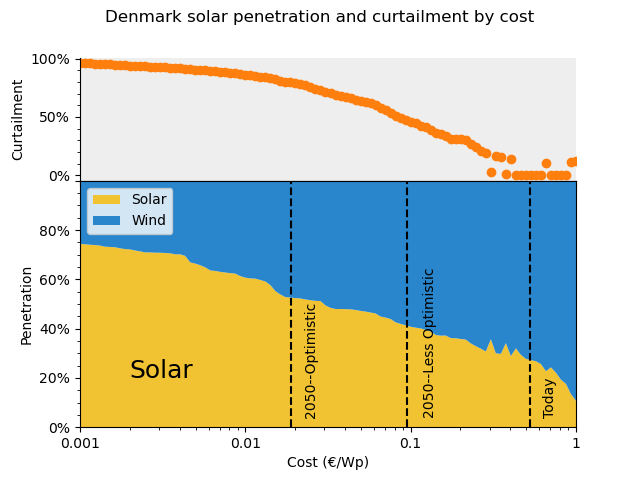
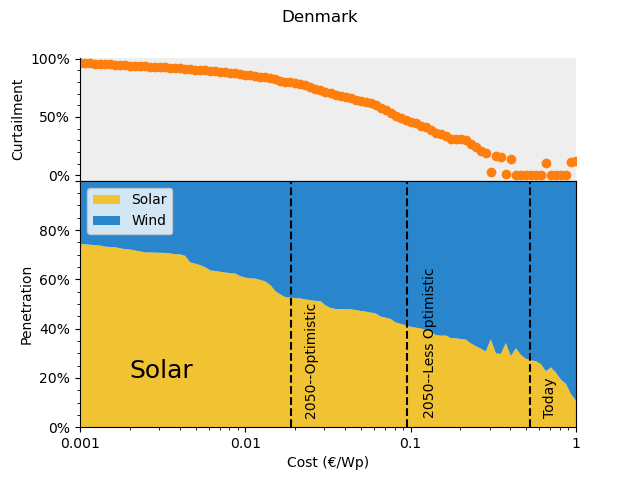
Making Figure 1 better (more readable)

Changed region(s): [[0.1562, 0.0, 0.8438, 0.0625]]

diff --git a/SimpleModelStorageZeroCO2.py b/SimpleModelStorageZeroCO2.py
@@ -7,6 +7,7 @@ import time
 from itertools import repeat
 import os
 import re
+import matplotlib.image as mpimg
 
 #network = Denmark, nspain, ncal, ncolorado
 Denmark = pypsa.Network()
@@ -383,26 +384,26 @@ for network in mynetworks:
 
 
 
-# DNK_solar_data = list(map(find_solar_data, repeat(Denmark), repeat("Denmark"), np.logspace(3, 6, 100)))
-# ESP_solar_data = list(map(find_solar_data, repeat(Spain), repeat("Spain"), np.logspace(3, 6, 100)))
-# CA_solar_data = list(map(find_solar_data, repeat(CA), repeat("CA"), np.logspace(3, 6, 100)))
-# CO_solar_data = list(map(find_solar_data, repeat(CO), repeat("CO"), np.logspace(3, 6, 100)))
+# DNK_solar_data = list(map(find_solar_data, repeat(Denmark), repeat("Denmark"), np.linspace(3, 6, 100)))
+# ESP_solar_data = list(map(find_solar_data, repeat(Spain), repeat("Spain"), np.linspace(3, 6, 100)))
+# CA_solar_data = list(map(find_solar_data, repeat(CA), repeat("CA"), np.linspace(3, 6, 100)))
+# CO_solar_data = list(map(find_solar_data, repeat(CO), repeat("CO"), np.linspace(3, 6, 100)))
+
+# for network in mynetworks:
+#     reset_stats(network)
+
+# map(find_wind_data, repeat(Denmark), repeat("Denmark"), np.logspace(3, 6, 100))
+# map(find_wind_data, repeat(Spain), repeat("Spain"), np.logspace(3, 6, 100))
+# map(find_wind_data, repeat(CA), repeat("CA"), np.logspace(3, 6, 100))
+# map(find_wind_data, repeat(CO), repeat("CO"), np.logspace(3, 6, 100))
 
 for network in mynetworks:
     reset_stats(network)
 
-map(find_wind_data, repeat(Denmark), repeat("Denmark"), np.logspace(3, 6, 100))
-map(find_wind_data, repeat(Spain), repeat("Spain"), np.logspace(3, 6, 100))
-map(find_wind_data, repeat(CA), repeat("CA"), np.logspace(3, 6, 100))
-map(find_wind_data, repeat(CO), repeat("CO"), np.logspace(3, 6, 100))
-
-for network in mynetworks:
-    reset_stats(network)
-
-#list(map(find_C02lim_data, repeat(Denmark), repeat("Denmark"), np.linspace(0, 3000000, 100)))
-map(find_C02lim_data, repeat(Spain), repeat("Spain"), np.logspace(0, 30000000, 100))
-map(find_C02lim_data, repeat(CA), repeat("CA"), np.logspace(0, 40000000, 100))
-map(find_C02lim_data, repeat(CO), repeat("CO"), np.logspace(0, 5000000, 100))
+list(map(find_C02lim_data, repeat(Denmark), repeat("Denmark"), np.linspace(0, 3000000, 100)))
+list(map(find_C02lim_data, repeat(Spain), repeat("Spain"), np.logspace(0, 30000000, 100)))
+list(map(find_C02lim_data, repeat(CA), repeat("CA"), np.logspace(0, 40000000, 100)))
+list(map(find_C02lim_data, repeat(CO), repeat("CO"), np.logspace(0, 5000000, 100)))
 
 
 
@@ -423,12 +424,9 @@ def import_cdf_data(filepath):
 
     max_gen = (n.generators.p_nom_opt * n.generators_t.p_max_pu)['solar'].sum()
 
-
-    gas_percent = gas_penetration/ (solar_penetration+ wind_penetration + gas_penetration)
     
    
     solar_cost = n.generators.loc[['solar'],['capital_cost']].values[0]
-    print(solar_cost)
     if max_gen == 0:
         s_curtailment = 0
         w_curtailment = 0
@@ -438,14 +436,13 @@ def import_cdf_data(filepath):
 
     
 
-    return solar_cost, solar_penetration, wind_penetration, s_curtailment, w_curtailment, gas_percent
+    return solar_cost, solar_penetration, wind_penetration, s_curtailment, w_curtailment, gas_penetration
 
 
 def natural_sort(l): 
     convert = lambda text: int(text) if text.isdigit() else text.lower()
     alphanum_key = lambda key: [convert(c) for c in re.split('([0-9]+)', key)]
     return sorted(l, key=alphanum_key)
-
 
 
 
@@ -457,8 +454,6 @@ def iterate_netcdf_solar(country):
         if "solar" in filename:
             f = os.path.join(mypath, filename)
             solution_list += [import_cdf_data(f)]
-            print(filename)
-        
     return solution_list
 
 
@@ -468,7 +463,7 @@ def iterate_netcdf_co2(country):
     '''Takes country as a string'''
     solution_list = []
     mypath = "NetCDF/" + country 
-    for filename in os.listdir(mypath):
+    for filename in natural_sort(os.listdir(mypath)):
         #if "solar" in filename:
         #if "wind" in filename:
         if "constraint" in filename:
@@ -480,7 +475,7 @@ def iterate_netcdf_co2(country):
 
 
 
-#solardnk = iterate_netcdf_solar("Denmark")
+solardnk = iterate_netcdf_solar("Denmark")
 solaresp = iterate_netcdf_solar("Spain")
 solarcol = iterate_netcdf_solar("CO")
 solarcal = iterate_netcdf_solar("CA")
@@ -795,12 +790,14 @@ def pen_plus_curtailDNK(solar):
 
 
 
-    plt.suptitle("Denmark solar penetration and curtailment by cost", fontsize = 12)
+    plt.suptitle("Denmark")
     
 
     plt.subplots_adjust(hspace = 0)
-    plt.savefig("Images/Pen_and_curtail_DNK")
-    plt.show()
+    #plt.savefig("Images/Pen_and_curtail_DNK")
+    #plt.show()
+    plt.close(fig)
+    return axs
 #pen_plus_curtailDNK(solardnk)
 
 def pen_plus_curtailESP(solar):
@@ -872,13 +869,15 @@ def pen_plus_curtailESP(solar):
 
 
 
-    plt.suptitle("Spain solar penetration and curtailment by cost", fontsize = 12)
+    plt.suptitle("Spain")
     
 
     plt.subplots_adjust(hspace = 0)
-    plt.savefig("Images/Pen_and_curtail_ESP")
-    plt.show()
-pen_plus_curtailESP(solaresp)
+    #plt.savefig("Images/Pen_and_curtail_ESP")
+    #plt.show()
+    plt.close(fig)
+    return axs
+#pen_plus_curtailESP(solaresp)
 
 def pen_plus_curtailCO(solar):
     s_cost = [x[0] for x in solar]
@@ -949,13 +948,15 @@ def pen_plus_curtailCO(solar):
 
 
 
-    plt.suptitle("CO solar penetration and curtailment by cost", fontsize = 12)
+    plt.suptitle("Colorado")
     
 
     plt.subplots_adjust(hspace = 0)
-    plt.savefig("Images/Pen_and_curtail_CO")
-    plt.show()
-pen_plus_curtailCO(solarcol)
+    #plt.savefig("Images/Pen_and_curtail_CO")
+    #plt.show()
+    plt.close(fig)
+    return axs
+#pen_plus_curtailCO(solarcol)
 
 
 def pen_plus_curtailCA(solar):
@@ -1027,13 +1028,15 @@ def pen_plus_curtailCA(solar):
 
 
 
-    plt.suptitle("CA solar penetration and curtailment by cost", fontsize = 12)
+    plt.suptitle("California")
     
 
     plt.subplots_adjust(hspace = 0)
-    plt.savefig("Images/Pen_and_curtail_CA")
-    plt.show()
-pen_plus_curtailCA(solarcal)
+    #plt.savefig("Images/Pen_and_curtail_CA")
+    #plt.show()
+    plt.close(fig)
+    return axs
+#pen_plus_curtailCA(solarcal)
 
 
 
@@ -1042,10 +1045,10 @@ def pen_plus_curtailALL():
     
     fig2 = plt.figure()
 
-    ax1  = pen_plus_curtailDNK()
-    ax2 = pen_plus_curtailESP()
-    ax3 = pen_plus_curtailCO()
-    ax4 = pen_plus_curtailCA()
+    ax1  = pen_plus_curtailDNK(solardnk)
+    ax2 = pen_plus_curtailESP(solaresp)
+    ax3 = pen_plus_curtailCO(solarcol)
+    ax4 = pen_plus_curtailCA(solarcal)
  
     ax1.figure = fig2
     ax2.figure = fig2
@@ -1099,7 +1102,23 @@ def pen_plus_curtailALL():
     
     
     plt.show()
+#pen_plus_curtailALL()
 
+def plot_an_image():
+    '''What I am making here '''
+    fig, axs = plt.subplots(2,1)
+    img1 = mpimg.imread("Images/Figure4.png")
+    img2 = mpimg.imread("Images/Figure_1.png")
+    axs[0].imshow(img1)
+    axs[1].imshow(img2)
+    plt.subplots_adjust(hspace = 0)
+
+    for ax in axs.flat:
+        ax.axis("off")
+    plt.show()
+
+
+plot_an_image()
 #pen_plus_curtailDNK(solardnk)
 #pen_plus_curtailESP(solaresp)
 #pen_plus_curtailCA(solarcal)

diff --git a/temperature-elec-compare.py b/temperature-elec-compare.py
@@ -7,7 +7,7 @@ import seaborn as sns
 import statsmodels.api as sm
 import matplotlib.dates as mdates
 from decimal import Decimal
-
+from matplotlib import gridspec
 
 def get_temp_data(timeframe):
     
@@ -516,6 +516,7 @@ def plot_ED_and_CF_data():
     
     This serves as figure 1 '''
     elec = get_electricity_data("weekly")[0]
+    print(elec)
 
     #elec = temp_to_elec()["DNK_demand"]
     solar = get_solar_data("weekly")[0]
@@ -554,11 +555,138 @@ def plot_ED_and_CF_data():
     fig.set_size_inches(6.4, 6)
     plt.savefig("images/EDandCFSpain")
     plt.show()
+
 '''This section of equations considers what happens if you take advantage of the relationship between electricity demand and temperature
 to see what happens if you are to increase the temperature by x degrees. In addition, one can '''
 
+def plot_ED_and_CF_data_all():
+    '''This function plots the electricity demand for one country on one axis and the capacity factors on other axes (sharing a y axis).
+    Modify it to change which country (make sure CA and CO use "Time in 2011")
+    
+    we can plot either just elec, or elec+heat, using temp_to_elec
+    
+    This serves as figure 1 '''
+    elecdnk = get_electricity_data("weekly")[1] #note: this returns a DATAFRAME so to to keep it as a dataframe do not use list comprehension
+    elecdnk = elecdnk/max(elecdnk)
+    solardnk = get_solar_data("weekly")[1]
+    winddnk = get_wind_data("weekly")[1]
+    #elec = temp_to_elec()["DNK_demand"]
+    
+    elecesp = get_electricity_data("weekly")[0]
+    elecesp = elecesp/max(elecesp)
+    solaresp = get_solar_data("weekly")[0]
+    windesp = get_wind_data("weekly")[0]
+
+    elecCo = get_electricity_data("weekly")[2]
+    elecCo = elecCo/max(elecCo)
+    #elecCo = [x/max(elecCo) for x in elecCo]
+    solarCo = get_solar_data("weekly")[2]
+    windCo = get_wind_data("weekly")[2]
+
+    elecCA = get_electricity_data("weekly")[3]
+    elecCA = elecCA/max(elecCA)
+
+    #elecCA = [x/max(elecCA) for x in elecCA]
+    solarCA = get_solar_data("weekly")[3]
+    windCA = get_wind_data("weekly")[3]
+
+    fig = plt.figure()
+    fig.set_figheight(5)
+
+    #gs = gridspec.GridSpec(2, 1)
+    axdnk1 = fig.add_subplot(411)
+    axdnk1.set_ylim(0.01, 1)
+    axdnk2=fig.add_subplot(411, frame_on=False)
+    axdnk2.set_ylim(0.01, 1)
+    axdnk3 = fig.add_subplot(411, sharey = axdnk2, frame_on=False)
+    axdnk1.plot(elecdnk, 'C0-', label = "Electricity demand")
+    axdnk2.plot(solardnk, 'C1-',  label = "Solar CF")
+    axdnk2.plot(winddnk, 'C2-',  label = "Wind CF")
+    axdnk1.set_ylabel("Denmark")
+    axdnk1.tick_params(direction = "in")
+
+    axesp1 = fig.add_subplot(412)
+    axesp1.set_ylim(0.01, 1)
+    axesp2= fig.add_subplot(412, frame_on=False)
+    axesp2.set_ylim(0.01, 1)
+    axesp3 = fig.add_subplot(412, sharey = axesp2, frame_on=False)
+    axesp1.plot(elecesp, 'C0-', label = "Electricity demand")
+    axesp2.plot(solaresp, 'C1-', label = "Solar CF")
+    axesp3.plot(windesp, 'C2-', label = "Wind CF")
+    axesp1.set_ylabel("Spain")
+    axesp1.tick_params(direction = "in")
 
 
+    axco1 = fig.add_subplot(413)
+    axco1.set_ylim(0.01, 1)
+    axco2= fig.add_subplot(413, frame_on=False)
+    axco2.set_ylim(0.01, 1)
+    axco3 = fig.add_subplot(413, sharey = axco2, frame_on=False)
+    axco1.plot(elecCo, 'C0-', label = "Electricity demand")
+    axco2.plot(solarCo, 'C1-', label = "Solar CF")
+    axco3.plot(windCo, 'C2-', label = "Wind CF")
+    axco1.set_ylabel("Colorado")
+    axco1.tick_params(direction = "in")
+
+    axca1 = fig.add_subplot(414)
+    axca1.set_ylim(0, 1)
+    axca2= fig.add_subplot(414, frame_on=False)
+    axca2.set_ylim(0, 1)
+    axca3 = fig.add_subplot(414, sharey = axca2, frame_on=False)
+    axca1.plot(elecCA, 'C0-', label = "Electricity demand")
+    axca2.plot(solarCA, 'C1-', label = "Solar CF")
+    axca3.plot(windCA, 'C2-', label = "Wind CF")
+    axca1.set_ylabel("California")
+    axca1.tick_params(direction = "in")
+
+
+
+    fmt = mdates.DateFormatter("%b")
+
+    plt.setp(axdnk1.get_xticklabels(), visible=False)
+    axdnk2.set_xticks([]) #We have two graphs sharing one axis, and without this we would be seeing double
+
+
+    plt.setp(axesp1.get_xticklabels(), visible=False)
+    axesp2.set_xticks([]) #We have two graphs sharing one axis, and without this we would be seeing double
+
+ 
+    plt.setp(axco1.get_xticklabels(), visible=False)
+    axco2.set_xticks([]) #We have two graphs sharing one axis, and without this we would be seeing double
+
+
+    axca1.xaxis.set_major_formatter(fmt)
+    axca2.set_xticks([]) #We have two graphs sharing one axis, and without this we would be seeing double
+
+    axdnk2.yaxis.set_visible(False)
+    axdnk3.set_xticks([])
+    axdnk3.yaxis.set_visible(False)
+
+    axesp2.yaxis.set_visible(False)
+    axesp3.set_xticks([])
+    axesp3.yaxis.set_visible(False)
+
+    axco2.yaxis.set_visible(False)
+    axco3.set_xticks([])
+    axco3.yaxis.set_visible(False)
+
+    axca2.yaxis.set_visible(False)
+    axca3.set_xticks([])
+    axca3.yaxis.set_visible(False)
+
+    #axdnk1.set_title("Denmark Electricity Demand and Capacity factors")
+
+
+    lines1, labels1 = axdnk1.get_legend_handles_labels()
+    lines2, labels2 = axdnk2.get_legend_handles_labels()
+    lines3, labels3 = axdnk3.get_legend_handles_labels()
+
+    fig.legend(lines1+lines2+lines3, labels1+labels2+labels3, bbox_to_anchor=(0.85, 0.06), ncol=3)
+    #fig.set_size_inches(6.4, 6)
+    plt.subplots_adjust(hspace=0)
+    plt.savefig("images/EDandCFALL2")
+    plt.show()
+#plot_ED_and_CF_data_all()
 
 #plot_ED_and_CF_data()
 
@@ -1066,7 +1194,7 @@ def gw_elec_all():
     
     plt.show()
 
-gw_elec_all()
+#gw_elec_all()
 #In this section of code, I want to make a new data table of the averages of the csv files
 # plt.scatter([1,1,4,5,2,1],[2,3,6,7,2,0])
 # b, m = polyfit([1,1,4,5,2,1],[2,3,6,7,2,0],1)
